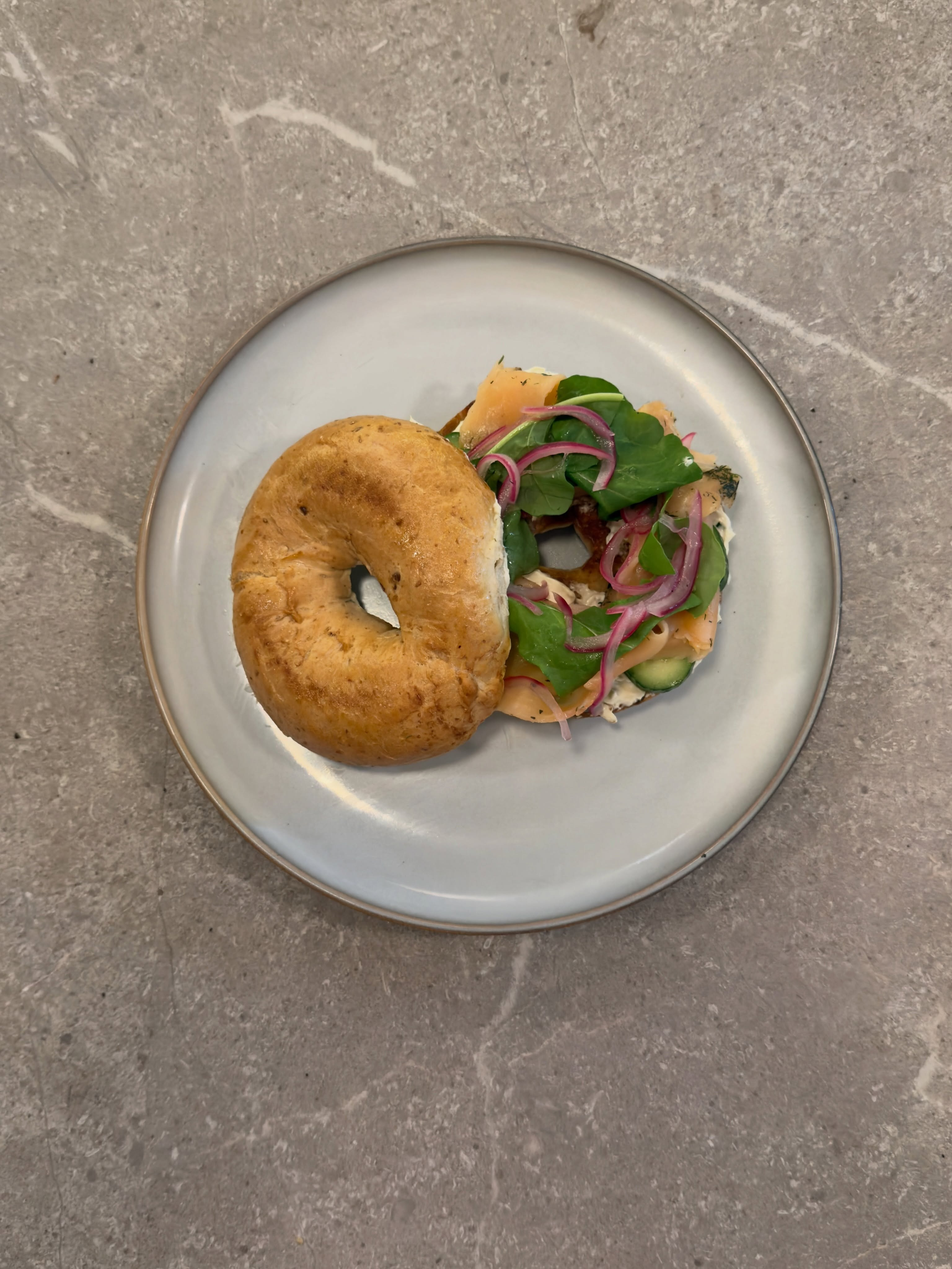
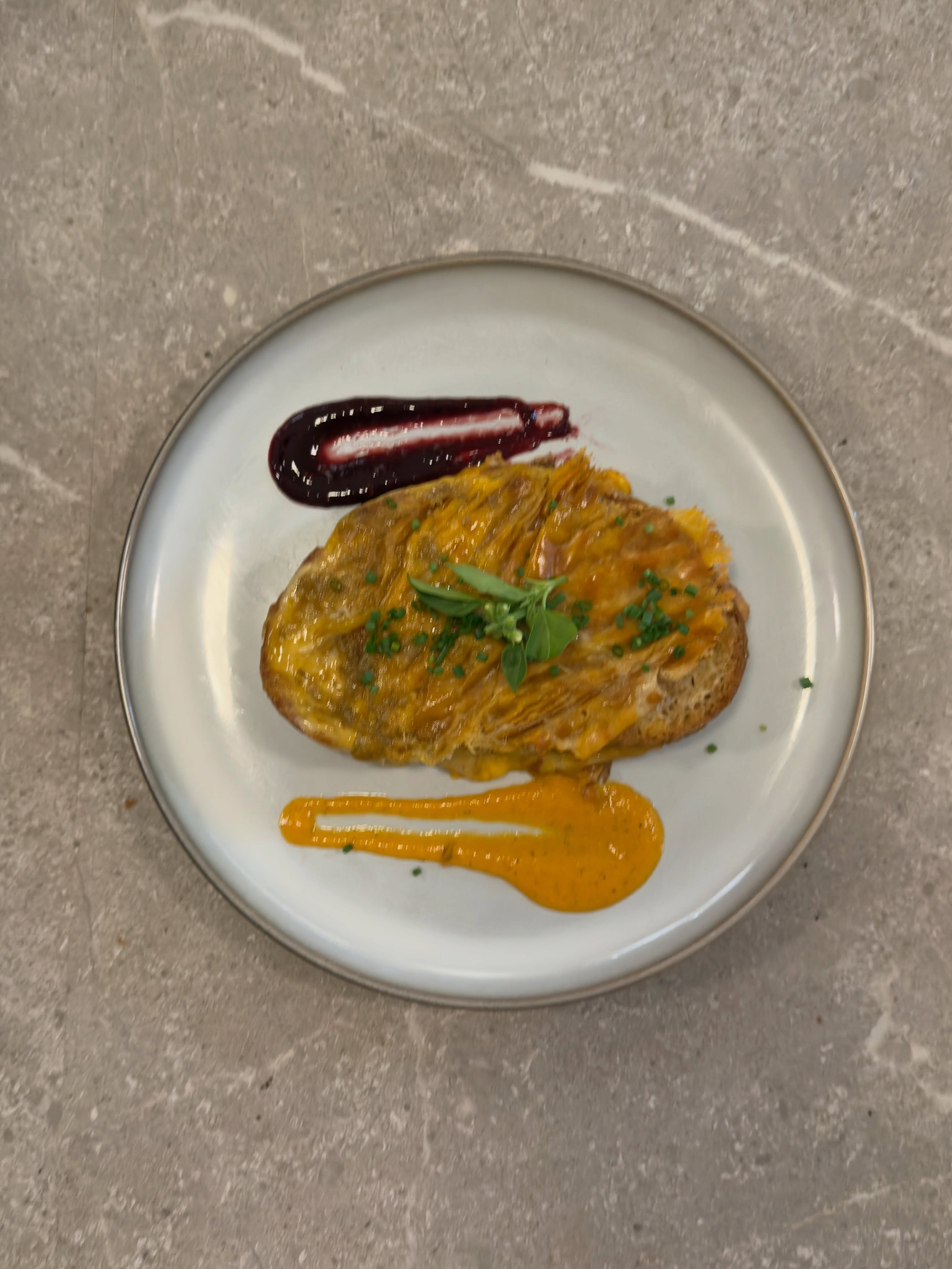
style: Update gallery titles and sync new images for Loyly Finnish Coffee

diff --git a/public/portafolio/Loyly Finnish Coffee/index.html b/public/portafolio/Loyly Finnish Coffee/index.html
@@ -106,36 +106,36 @@
     <!-- Gallery Section -->
     <section id="galeria" class="py-24 bg-[#EAE5DE]">
         <div class="max-w-7xl mx-auto px-6 text-center">
-            <h3 class="text-3xl md:text-5xl font-bold mb-6 text-loyly-green">Nuestros Espacios</h3>
+            <h3 class="text-3xl md:text-5xl font-bold mb-6 text-loyly-green">Nuestra Selección</h3>
             <div class="w-16 h-1 bg-loyly-wood mb-16 rounded-full mx-auto"></div>
             
             <div class="grid grid-cols-2 md:grid-cols-3 lg:grid-cols-5 gap-4">
                 <div class="group relative rounded-xl overflow-hidden cursor-pointer aspect-square" onclick="openLightbox('Imágenes para añadir antigravity/1.jpg')">
-                    <img src="Imágenes para añadir antigravity/1.jpg" alt="Espacio Löyly 1" class="w-full h-full object-cover transition-transform duration-500 group-hover:scale-110">
+                    <img src="Imágenes para añadir antigravity/1.jpg" alt="Platillo Löyly 1" class="w-full h-full object-cover transition-transform duration-500 group-hover:scale-110">
                     <div class="absolute inset-0 bg-loyly-green/40 opacity-0 group-hover:opacity-100 transition-opacity flex items-center justify-center backdrop-blur-sm">
                         <i class="fa-solid fa-expand text-white text-3xl"></i>
                     </div>
                 </div>
                 <div class="group relative rounded-xl overflow-hidden cursor-pointer aspect-square" onclick="openLightbox('Imágenes para añadir antigravity/2.jpg')">
-                    <img src="Imágenes para añadir antigravity/2.jpg" alt="Espacio Löyly 2" class="w-full h-full object-cover transition-transform duration-500 group-hover:scale-110">
+                    <img src="Imágenes para añadir antigravity/2.jpg" alt="Platillo Löyly 2" class="w-full h-full object-cover transition-transform duration-500 group-hover:scale-110">
                     <div class="absolute inset-0 bg-loyly-green/40 opacity-0 group-hover:opacity-100 transition-opacity flex items-center justify-center backdrop-blur-sm">
                         <i class="fa-solid fa-expand text-white text-3xl"></i>
                     </div>
                 </div>
                 <div class="group relative rounded-xl overflow-hidden cursor-pointer aspect-square" onclick="openLightbox('Imágenes para añadir antigravity/3.jpg')">
-                    <img src="Imágenes para añadir antigravity/3.jpg" alt="Espacio Löyly 3" class="w-full h-full object-cover transition-transform duration-500 group-hover:scale-110">
+                    <img src="Imágenes para añadir antigravity/3.jpg" alt="Platillo Löyly 3" class="w-full h-full object-cover transition-transform duration-500 group-hover:scale-110">
                     <div class="absolute inset-0 bg-loyly-green/40 opacity-0 group-hover:opacity-100 transition-opacity flex items-center justify-center backdrop-blur-sm">
                         <i class="fa-solid fa-expand text-white text-3xl"></i>
                     </div>
                 </div>
                 <div class="group relative rounded-xl overflow-hidden cursor-pointer aspect-square" onclick="openLightbox('Imágenes para añadir antigravity/4.jpg')">
-                    <img src="Imágenes para añadir antigravity/4.jpg" alt="Espacio Löyly 4" class="w-full h-full object-cover transition-transform duration-500 group-hover:scale-110">
+                    <img src="Imágenes para añadir antigravity/4.jpg" alt="Platillo Löyly 4" class="w-full h-full object-cover transition-transform duration-500 group-hover:scale-110">
                     <div class="absolute inset-0 bg-loyly-green/40 opacity-0 group-hover:opacity-100 transition-opacity flex items-center justify-center backdrop-blur-sm">
                         <i class="fa-solid fa-expand text-white text-3xl"></i>
                     </div>
                 </div>
                 <div class="group relative rounded-xl overflow-hidden cursor-pointer aspect-square col-span-2 md:col-span-1" onclick="openLightbox('Imágenes para añadir antigravity/5.jpg')">
-                    <img src="Imágenes para añadir antigravity/5.jpg" alt="Espacio Löyly 5" class="w-full h-full object-cover transition-transform duration-500 group-hover:scale-110">
+                    <img src="Imágenes para añadir antigravity/5.jpg" alt="Platillo Löyly 5" class="w-full h-full object-cover transition-transform duration-500 group-hover:scale-110">
                     <div class="absolute inset-0 bg-loyly-green/40 opacity-0 group-hover:opacity-100 transition-opacity flex items-center justify-center backdrop-blur-sm">
                         <i class="fa-solid fa-expand text-white text-3xl"></i>
                     </div>
